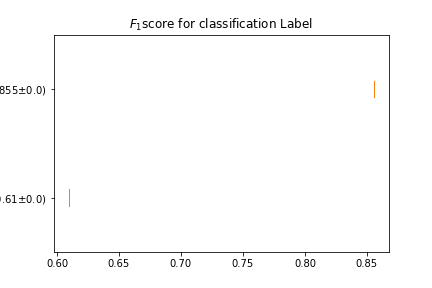
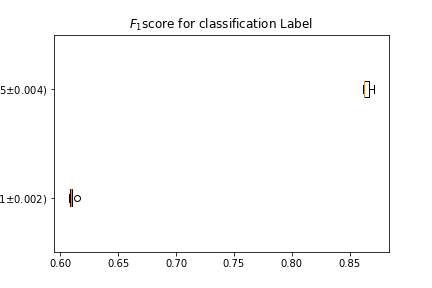
s

diff --git a/2_levels_problem/mode2/MLobject_tlevel.py b/2_levels_problem/mode2/MLobject_tlevel.py
@@ -97,7 +97,7 @@ class MyMLdata_2level:
         # # all classification models:
         # classification_default_param = {
         # 'model_names': ['KNN', 'SVC', 'Decision tree', 'Random Forest',  'Gradient Boosting', 'Adaptive boosting', 'Naive Bayes', 'Neural Network'], # a list of name for each model.
-        # 'model_lists': [KNeighborsClassifier(n_neighbors = 5, weights='distance',n_jobs=-1), SVC(), DecisionTreeClassifier(), RandomForestClassifier(n_estimators=100, verbose =0,n_jobs=-1), GradientBoostingClassifier(verbose=0,loss='deviance'), AdaBoostClassifier(base_estimator = DecisionTreeClassifier(), n_estimators=10), GaussianNB(), MLPClassifier((300,100),alpha=0.001, activation = 'relu',verbose=0,learning_rate='adaptive')],# a list of model improted from sklearn
+        # 'model_lists': [KNeighborsClassifier(n_neighbors = 5, weights='distance',n_jobs=-1), SVC(), DecisionTreeClassifier(), RandomForestClassifier(n_estimators=100, verbose =0,n_jobs=-1), GradientBoostingClassifier(verbose=0,loss='deviance'), AdaBoostClassifier(base_estimator = DecisionTreeClassifier(), n_estimators=10), GaussianNB(), MLPClassifier((100,100),alpha=0.001, activation = 'relu',verbose=1,learning_rate='adaptive')],# a list of model improted from sklearn
         # 'gridsearchlist': [False, False, False, False, False, False, False, False],
         # 'param_list': [{'n_neighbors':range(1, 30)}, {'C': [0.1, 1, 10], 'kernel': ('linear', 'poly', 'rbf')},  {'max_depth': [10, 100, 1e3]}, {'n_estimators':[10, 100]}, {'n_estimators':[10, 100]},{'n_estimators':[10, 100]}, {'var_smoothing':[1e-9, 1e-3]},{'hidden_layer_sizes':((100, 300, 500, 300, 100), (100, 300, 500, 500, 300, 100), (200, 600, 900, 600, 200))}]# a list of key parameters correspond to the models in the model_lists
         # }
@@ -117,7 +117,7 @@ class MyMLdata_2level:
         # }
         classification_default_param = {
         'model_names': ['Naive Bayes', 'Neural Network'], # a list of name for each model.
-        'model_lists': [GaussianNB(), MLPClassifier(activation='relu', alpha=0.001, batch_size='auto', beta_1=0.9, beta_2=0.999, early_stopping=False, epsilon=1e-08, hidden_layer_sizes=(300, 100), learning_rate='adaptive', learning_rate_init=0.001, max_iter=200, momentum=0.9, n_iter_no_change=10, nesterovs_momentum=True, power_t=0.5, random_state=None, shuffle=True, solver='adam', tol=0.0001, validation_fraction=0.1, verbose=1, warm_start=False)],# a list of model improted from sklearn
+        'model_lists': [GaussianNB(), MLPClassifier(activation='relu', alpha=0.001, batch_size='auto', beta_1=0.9, beta_2=0.999, early_stopping=False, epsilon=1e-08, hidden_layer_sizes=(100, 100), learning_rate='adaptive', learning_rate_init=0.001, max_iter=200, momentum=0.9, n_iter_no_change=10, nesterovs_momentum=True, power_t=0.5, random_state=None, shuffle=True, solver='adam', tol=0.0001, validation_fraction=0.1, verbose=1, warm_start=False)],# a list of model improted from sklearn
         'gridsearchlist': [False, False],
         'param_list': [{'var_smoothing':[1e-9, 1e-3]}, {'hidden_layer_sizes':((100, 300, 500, 300, 100), (100, 300, 500, 500, 300, 100), (200, 600, 900, 600, 200))}]# a list of key parameters correspond to the models in the model_lists
         }
@@ -2079,6 +2079,7 @@ class MyMLdata_2level:
     #             select_X_list.append(string)
     #     Xp = n_data[select_X_list]
     #     Xp.columns = select_X_list_p
+
 # %%-
 
 

diff --git a/2_levels_problem/defect_2level_classification.py/defect_type_classification.py b/2_levels_problem/defect_2level_classification.py/defect_type_classification.py
@@ -37,7 +37,7 @@ sys.path.append(r'C:\Users\z5183876\OneDrive - UNSW\Documents\GitHub\SRH_sklearn
 sys.path.append(r'C:\Users\z5183876\OneDrive - UNSW\Documents\GitHub\SRH_sklearn_playwithdata\2_levels_problem\mode2\Savedir_example')
 from MLobject_tlevel import *
 # from dynamic_generation_regression import *
-df1 = MyMLdata_2level(r"C:\Users\sijin wang\Desktop\research\thesiswork\ML_results\simulation_data\Etnonordered\one_vs_two_level_classification\80k\2022-09-14-10-03-50_advanced example - multi_level_L_datasetID_0.csv", 'bandgap1',1)
+# df1 = MyMLdata_2level(r"C:\Users\sijin wang\Desktop\research\thesiswork\ML_results\simulation_data\Etnonordered\one_vs_two_level_classification\80k\2022-09-14-10-03-50_advanced example - multi_level_L_datasetID_0.csv", 'bandgap1',1)
 # df1.data.head()
 # df1.data['Label']
 # %%-
@@ -48,4 +48,67 @@ df1.singletask='Label'
 # X, y = df1.pre_processor()
 f1scores, y_prediction_frame, y_test_frame = df1.classification_repeat()
 df1.email_reminder()
+# %%-
+
+# %%-- learning curve.
+# create an empty list to collect results.
+f1_list = []
+for fraction in np.logspace(-3, 0, 20):
+    # update the object.
+    df1 = MyMLdata_2level(r"C:\Users\sijin wang\Desktop\research\thesiswork\ML_results\simulation_data\Etnonordered\one_vs_two_level_classification\80k\2022-09-14-10-03-50_advanced example - multi_level_L_datasetID_0.csv", 'bandgap1',5)
+    # resample the data.
+    df1.data = df1.data.sample(frac=fraction)
+    # define the task.
+    df1.singletask='Label'
+    # perform the training and testing.
+    # print('starting training iteration')
+    f1scores, y_prediction_frame, y_test_frame = df1.classification_repeat()
+    f1_list.append(f1scores)
+# send an email to myself after done.
+df1.email_reminder()
+# %%-
+
+
+# %%-- plot the results: data processing.
+# saperate out the nn results.
+f1_list2 = f1_list
+f1_array = np.array(f1_list2)
+f1_array_nn = f1_array[:, :, 1]
+f1_array_nn = np.array(f1_array_nn)
+# calcualte the average, medium, and std for each data size.
+f1_av = np.average(f1_array_nn, axis=1)
+f1_av
+f1_med = np.median(f1_array_nn, axis=1)
+f1_med
+f1_std = np.std(f1_array_nn, axis=1)
+# create the datasize axis:
+datasize = np.logspace(-3, 0, 20)*160e3*0.9
+# %%--
+
+
+# %%--plot the av with std vs datasize.
+plt.figure(facecolor='white')
+plt.errorbar(datasize, f1_av, yerr = f1_std, ecolor='black')
+plt.xlabel('training datasize')
+plt.ylabel('F-1 score')
+plt.title('Average F-1 score vs training datasize')
+# make the datasize above which the F1 saturates.
+plt.axvline(x=120000, color='red', label='axvline - full height', ls='--')
+# export the image.
+plt.savefig('Average F-1 score vs training datasize' + '.png')
+plt.show()
+# %%-
+
+
+# %%--plot the median with std vs datasize.
+plt.figure(facecolor='white')
+plt.errorbar(datasize, f1_med, yerr = f1_std, ecolor='black')
+plt.xlabel('training datasize')
+plt.ylabel('F-1 score')
+plt.title('Median F-1 score vs training datasize')
+# make the datasize above which the F1 saturates.
+plt.axvline(x=120000, color='red', label='axvline - full height', ls='--')
+# export the image.
+plt.savefig('Median F-1 score vs training datasize' + '.png')
+plt.show()
 # %%-

diff --git a/2_levels_problem/mode2/Et_regression/set11/set11.py b/2_levels_problem/mode2/Et_regression/set11/set11.py
@@ -72,6 +72,7 @@ for task in['Et_eV_2', 'logSn_2', 'logSp_2', 'Et_eV_1', 'logSn_1', 'logSp_1']:
     exportdata.to_csv(str(filename))
 # %%-
 
+
 # %%-- colour coding:
 for column in ['logSn_2', 'logSp_2', 'Et_eV_2', 'logSn_1', 'logSp_1']:
     df1.colour_column = column
